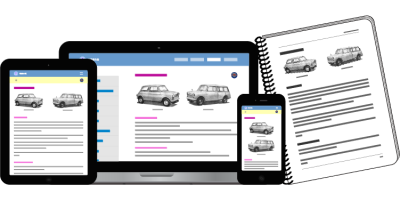
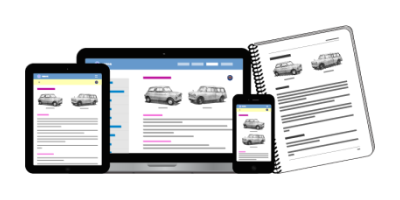
首页：修改服务项目的链接图片

diff --git a/_site/index.html b/_site/index.html
@@ -66,30 +66,26 @@
 
       <div class="col-lg-5 my-4">
         <div class="card content-link-service">
-          <div class="row no-gutters">
-            <div class="col-md-6 col-lg card-image-box">
-              <img src="assets/images/home/linkcontent-service-manuals.png" alt="产品手册服务链接图片" class="card-image">
-            </div>
-            <div class="card-body col-md-6 col-lg">
-              <h3 class="card-title">产品手册</h3>
-              <p class="card-text">应用久经验证的技术写作准则和最前沿的文档处理技术，让您的产品手册尽显大气端庄。</p>
-              <p class="card-link mt-1"><a href="" class="btn btn-link">了解详情</a></p>
-            </div>
+          <div class="image-box col-md-6 col-lg d-flex justify-content-center align-items-center">
+            <img src="assets/images/home/linkcontent-service-manuals.png" alt="产品手册服务链接图片" class="link-image">
+          </div>
+          <div class="card-body col-md-6 col-lg">
+            <h4 class="card-title">产品手册</h4>
+            <p class="card-text">遵循久经验证的技术写作规范，应用最前沿的文档处理技术，让您的产品手册尽显大气端庄。</p>
+            <p class="card-link mt-1"><a href="" class="btn btn-link">了解详情</a></p>
           </div>
         </div>
       </div>
 
       <div class="col-lg-5 my-4">
         <div class="card content-link-service">
-          <div class="row no-gutters">
-            <div class="col-md-6 col-lg card-image-box">
-              <img src="assets/images/home/linkcontent-service-webcontent.png" alt="网站内容维护服务链接图片" class="card-image">
-            </div>
-            <div class="card-body col-md-6 col-lg">
-              <h3 class="card-title">网站内容维护</h3>
-              <p class="card-text">基于HTML的产品信息呈现，不仅条理清晰、美观大方，还能提高您的产品在搜索引擎中的曝光率。</p>
-              <p class="card-link mt-1"><a href="" class="btn btn-link mt-1">了解详情</a></p>
-            </div>
+          <div class="image-box col-md-6 col-lg d-flex justify-content-center align-items-center">
+            <img src="assets/images/home/linkcontent-service-webcontent.png" alt="网站内容维护服务链接图片" class="link-image">
+          </div>
+          <div class="card-body col-md-6 col-lg">
+            <h4 class="card-title">网站内容维护</h4>
+            <p class="card-text">基于HTML的产品信息呈现，不仅条理清晰、美观大方，还能提高您的产品在搜索引擎中的曝光率。</p>
+            <p class="card-link mt-1"><a href="" class="btn btn-link mt-1">了解详情</a></p>
           </div>
         </div>
       </div>
@@ -100,59 +96,29 @@
 
       <div class="col-lg-5 my-4">
         <div class="card content-link-service">
-          <div class="row no-gutters">
-            <div class="col-md-6 col-lg card-image-box">
-              <img src="assets/images/home/linkcontent-service-training.png" alt="培训与咨询服务链接图片" class="card-image">
-            </div>
-            <div class="card-body col-md-6 col-lg">
-              <h3 class="card-title">咨询与培训</h3>
-              <p class="card-text">帮助您的团队快速提高技术沟通的效率、产品文档的编写质量和交付速度。</p>
-              <p class="card-link mt-1"><a href="" class="btn btn-link mt-1">了解详情</a></p>
-            </div>
+          <div class="image-box col-md-6 col-lg d-flex justify-content-center align-items-center">
+            <img src="assets/images/home/linkcontent-service-training.png" alt="培训与咨询服务链接图片" class="link-image">
+          </div>
+          <div class="card-body col-md-6 col-lg">
+            <h4 class="card-title">咨询与培训</h4>
+            <p class="card-text">帮助您的团队快速提高技术沟通的效率、产品文档的编写质量和交付速度。</p>
+            <p class="card-link mt-1"><a href="" class="btn btn-link mt-1">了解详情</a></p>
           </div>
         </div>
       </div>
 
       <div class="col-lg-5 my-4">
         <div class="card content-link-service">
-          <div class="row no-gutters">
-            <div class="col-md-6 col-lg card-image-box">
-              <img src="assets/images/home/linkcontent-sponsor-me.png" alt="赞助与支持链接图片" class="card-image">
-            </div>
-            <div class="card-body col-md-6 col-lg">
-              <h3 class="card-title">合作与支持</h3>
-              <p class="card-text">一起发掘优质在线内容的获客潜力，解锁全民上网时代的流量密码。</p>
-              <p class="card-link mt-1"><a href="" class="btn btn-link mt-1">了解详情</a></p>
-            </div>
+          <div class="image-box col-md-6 col-lg d-flex justify-content-center align-items-center">
+            <img src="assets/images/home/linkcontent-cooperation.png" alt="赞助与支持链接图片" class="link-image">
+          </div>
+          <div class="card-body col-md-6 col-lg">
+            <h4 class="card-title">合作与支持</h4>
+            <p class="card-text">一起发掘优质在线内容的获客潜力，解锁全民上网时代的流量密码。</p>
+            <p class="card-link mt-1"><a href="" class="btn btn-link mt-1">了解详情</a></p>
           </div>
         </div>
       </div>
-
-      <!-- <div class="col-md-6 my-4 col-lg">
-        <div class="d-flex align-items-center d-lg-block">
-          <img class="mr-2 icon-service" src="/assets/images/home/docs.png" alt="图标-产品文档">
-          <h5 class="d-inline-block d-lg-block mt-lg-3 service">
-            <a href="/services/technical-documentation.html">产品手册</a>
-          </h5>
-        </div>
-        <p class="mt-2">结构化写作 | 代码化管理 | 专业化排版</p>
-      </div>
-
-      <div class="col-md-6 my-4 col-lg">
-        <div class="d-flex align-items-center d-lg-block">
-          <img class="mr-2 icon-service" src="/assets/images/home/courseware.png" alt="图标-解决方案">
-          <h5 class="d-inline-block d-lg-block mt-lg-3 service">培训教程</h5>
-        </div>
-        <p class="mt-2">任务导向 | 精选示例 | 多媒体演示</p>
-      </div>
-      
-      <div class="col-md-6 my-4 col-lg">
-        <div class="d-flex align-items-center d-lg-block">
-          <img class="mr-2 icon-service" src="/assets/images/home/marketing.png" alt="图标-技术营销">
-          <h5 class="d-inline-block d-lg-block mt-lg-3 service">内容营销</h5>
-        </div>
-        <p class="mt-2">技术文章 | 行业洞察 | 产品文案</p>
-      </div> -->
 
     </div>
   </div>

diff --git a/index.html b/index.html
@@ -29,30 +29,26 @@ headerImage: "/assets/images/home/header-image-home-20mpx.jpg"
 
       <div class="col-lg-5 my-4">
         <div class="card content-link-service">
-          <div class="row no-gutters">
-            <div class="col-md-6 col-lg card-image-box">
-              <img src="assets/images/home/linkcontent-service-manuals.png" alt="产品手册服务链接图片" class="card-image">
-            </div>
-            <div class="card-body col-md-6 col-lg">
-              <h3 class="card-title">产品手册</h3>
-              <p class="card-text">应用久经验证的技术写作准则和最前沿的文档处理技术，让您的产品手册尽显大气端庄。</p>
-              <p class="card-link mt-1"><a href="" class="btn btn-link">了解详情</a></p>
-            </div>
+          <div class="image-box col-md-6 col-lg d-flex justify-content-center align-items-center">
+            <img src="assets/images/home/linkcontent-service-manuals.png" alt="产品手册服务链接图片" class="link-image">
+          </div>
+          <div class="card-body col-md-6 col-lg">
+            <h4 class="card-title">产品手册</h4>
+            <p class="card-text">遵循久经验证的技术写作规范，应用最前沿的文档处理技术，让您的产品手册尽显大气端庄。</p>
+            <p class="card-link mt-1"><a href="" class="btn btn-link">了解详情</a></p>
           </div>
         </div>
       </div>
 
       <div class="col-lg-5 my-4">
         <div class="card content-link-service">
-          <div class="row no-gutters">
-            <div class="col-md-6 col-lg card-image-box">
-              <img src="assets/images/home/linkcontent-service-webcontent.png" alt="网站内容维护服务链接图片" class="card-image">
-            </div>
-            <div class="card-body col-md-6 col-lg">
-              <h3 class="card-title">网站内容维护</h3>
-              <p class="card-text">基于HTML的产品信息呈现，不仅条理清晰、美观大方，还能提高您的产品在搜索引擎中的曝光率。</p>
-              <p class="card-link mt-1"><a href="" class="btn btn-link mt-1">了解详情</a></p>
-            </div>
+          <div class="image-box col-md-6 col-lg d-flex justify-content-center align-items-center">
+            <img src="assets/images/home/linkcontent-service-webcontent.png" alt="网站内容维护服务链接图片" class="link-image">
+          </div>
+          <div class="card-body col-md-6 col-lg">
+            <h4 class="card-title">网站内容维护</h4>
+            <p class="card-text">基于HTML的产品信息呈现，不仅条理清晰、美观大方，还能提高您的产品在搜索引擎中的曝光率。</p>
+            <p class="card-link mt-1"><a href="" class="btn btn-link mt-1">了解详情</a></p>
           </div>
         </div>
       </div>
@@ -63,30 +59,26 @@ headerImage: "/assets/images/home/header-image-home-20mpx.jpg"
 
       <div class="col-lg-5 my-4">
         <div class="card content-link-service">
-          <div class="row no-gutters">
-            <div class="col-md-6 col-lg card-image-box">
-              <img src="assets/images/home/linkcontent-service-training.png" alt="培训与咨询服务链接图片" class="card-image">
-            </div>
-            <div class="card-body col-md-6 col-lg">
-              <h3 class="card-title">咨询与培训</h3>
-              <p class="card-text">帮助您的团队快速提高技术沟通的效率、产品文档的编写质量和交付速度。</p>
-              <p class="card-link mt-1"><a href="" class="btn btn-link mt-1">了解详情</a></p>
-            </div>
+          <div class="image-box col-md-6 col-lg d-flex justify-content-center align-items-center">
+            <img src="assets/images/home/linkcontent-service-training.png" alt="培训与咨询服务链接图片" class="link-image">
+          </div>
+          <div class="card-body col-md-6 col-lg">
+            <h4 class="card-title">咨询与培训</h4>
+            <p class="card-text">帮助您的团队快速提高技术沟通的效率、产品文档的编写质量和交付速度。</p>
+            <p class="card-link mt-1"><a href="" class="btn btn-link mt-1">了解详情</a></p>
           </div>
         </div>
       </div>
 
       <div class="col-lg-5 my-4">
         <div class="card content-link-service">
-          <div class="row no-gutters">
-            <div class="col-md-6 col-lg card-image-box">
-              <img src="assets/images/home/linkcontent-sponsor-me.png" alt="赞助与支持链接图片" class="card-image">
-            </div>
-            <div class="card-body col-md-6 col-lg">
-              <h3 class="card-title">合作与支持</h3>
-              <p class="card-text">一起发掘优质在线内容的获客潜力，解锁全民上网时代的流量密码。</p>
-              <p class="card-link mt-1"><a href="" class="btn btn-link mt-1">了解详情</a></p>
-            </div>
+          <div class="image-box col-md-6 col-lg d-flex justify-content-center align-items-center">
+            <img src="assets/images/home/linkcontent-cooperation.png" alt="赞助与支持链接图片" class="link-image">
+          </div>
+          <div class="card-body col-md-6 col-lg">
+            <h4 class="card-title">合作与支持</h4>
+            <p class="card-text">一起发掘优质在线内容的获客潜力，解锁全民上网时代的流量密码。</p>
+            <p class="card-link mt-1"><a href="" class="btn btn-link mt-1">了解详情</a></p>
           </div>
         </div>
       </div>

diff --git a/_sass/home.scss b/_sass/home.scss
@@ -92,16 +92,16 @@ span#cong{
 
   .card-text{text-align: justify;}
 
-  }
-
-div.card-image-box{
-  text-align: center;
-  img.card-image{
-    width: 240px;
-    height: auto;
-    max-width: 100%;
-    border: 1px solid transparent;
-  }
 }
 
+.image-box{
+  height: 125px;
+  width: 100%;
+}
+
+.link-image{
+  max-height: 125px;
+  max-width: 100%;
+  object-fit: contain;
+}
 
